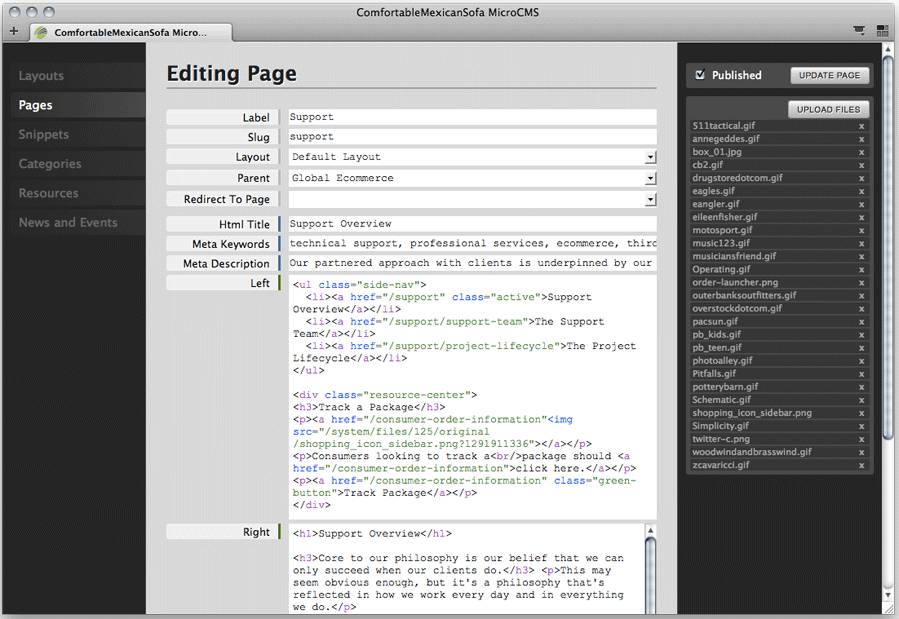
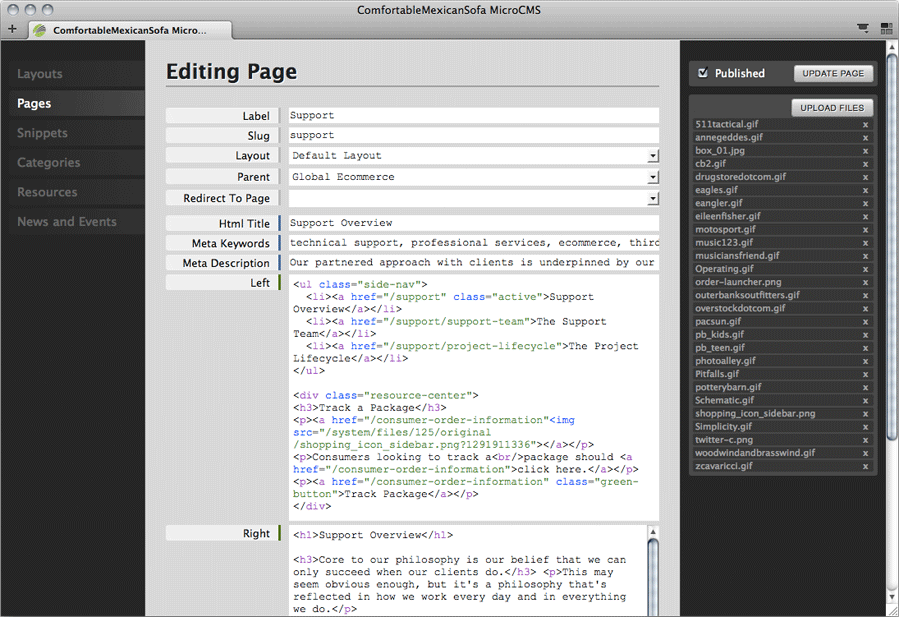
fixing crop/url
Former-commit-id: 68042f0de1a86dcce5687860963c6536aa8bba5c

Changed region(s): [[0.0, 0.0, 1.0, 1.0]]

diff --git a/README.md b/README.md
@@ -32,7 +32,7 @@ Before creating pages and populating them with content we need to create a layou
 
 Once you have a layout you may start creating pages and populating content. It's that easy.
 
-![Sofa's Page Edit View](https://github.com/twg/comfortable-mexican-sofa/blob/master/doc/page_editing.png)
+![Sofa's Page Edit View](https://github.com/twg/comfortable-mexican-sofa/raw/master/doc/page_editing.png)
 
 CMS Tags
 --------
